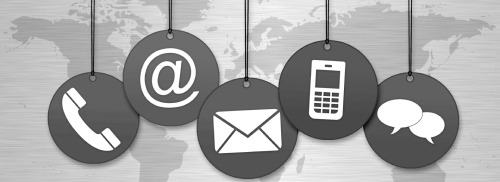
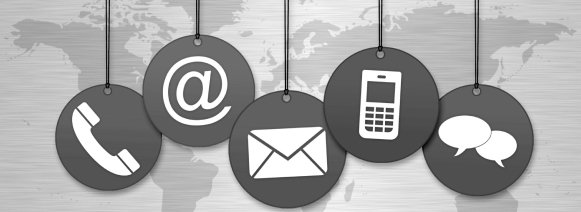
get in touch

diff --git a/index.html b/index.html
@@ -113,7 +113,43 @@
 								</div>
 							</section>
 
-				 
+							<section>
+								<header>
+									<h2>Get in touch</h2>
+									<footer>
+										<ul class="items">
+											<li>
+												<h3>Email</h3>
+												<a href="#">manishsankari@gmail.com</a>
+											</li>
+											<li>
+												<h3>Phone</h3>
+												<a href="#">+91 7999165946</a>
+											</li>
+											<li>
+												<h3>Address</h3>
+												<span>Jabalpur, MP </span>
+											</li>
+											<li>
+											 
+												<ul class="icons">
+			
+													<li><a href="https://www.linkedin.com/in/manishsankari/" class="icon brands fa-linkedin-in"><span class="label" target="_blank">LinkedIn</span></a></li>
+			
+												</ul>
+											</li>
+										</ul>
+									</footer>
+						 	</header>
+								<div class="content">
+									<div class="gallery">
+										<a href="#" class="landscape"><img src="images/gallery/thumbs/Get-in-touch.jpg" alt="" /></a>
+									 
+								 
+									</div>
+								</div>
+							</section>
+			 
 				 
 
 					</div>
@@ -121,40 +157,7 @@
 
  
  
-				<!-- Section -->
-					<section>
-						<header>
-							<h2>Get in touch</h2>
-						</header>
-						<div class="content">
-									 <img class="full-img" src="images/gallery/thumbs/Get-in-touch.jpg" alt="" /> 
-						</div>
-						<footer>
-							<ul class="items">
-								<li>
-									<h3>Email</h3>
-									<a href="#">manishsankari@gmail.com</a>
-								</li>
-								<li>
-									<h3>Phone</h3>
-									<a href="#">+91 7999165946</a>
-								</li>
-								<li>
-									<h3>Address</h3>
-									<span>Jabalpur, MP </span>
-								</li>
-								<li>
-								 
-									<ul class="icons">
-
-										<li><a href="https://www.linkedin.com/in/manishsankari/" class="icon brands fa-linkedin-in"><span class="label" target="_blank">LinkedIn</span></a></li>
-
-									</ul>
-								</li>
-							</ul>
-						</footer>
-					</section>
-
+		 
 				<!-- Copyright -->
 	 
 
